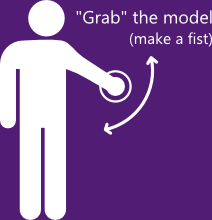
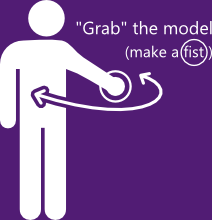
Improving help screen graphics.

Changed region(s): [[0.1415, 0.0273, 1.0, 0.6273], [0.3396, 0.0273, 0.5943, 0.1636]]

diff --git a/Rotate3D/MainWindow.xaml.cs b/Rotate3D/MainWindow.xaml.cs
@@ -124,7 +124,7 @@ namespace Rotate3D {
             this.helpTipWindow.Topmost = true;
 
             // Create the help window
-            this.helpWindow = new ThemedOverlayWindow(new KinectHelpControl(), new Size(604, 604), OverlayPosition.Center, double.PositiveInfinity, false);
+            this.helpWindow = new ThemedOverlayWindow(new KinectHelpControl(), new Size(604, 654), OverlayPosition.Center, double.PositiveInfinity, false);
             this.helpWindow.Topmost = true;
 
             // Process skeletons in the background
